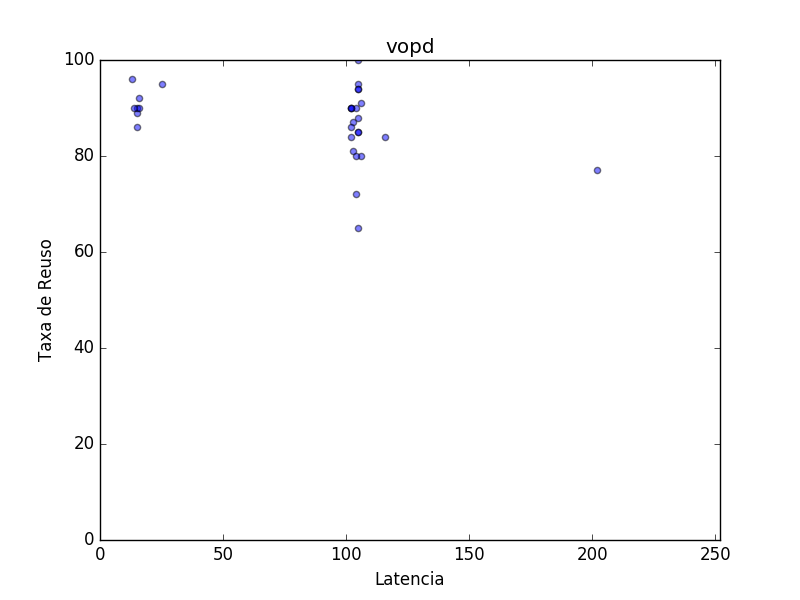
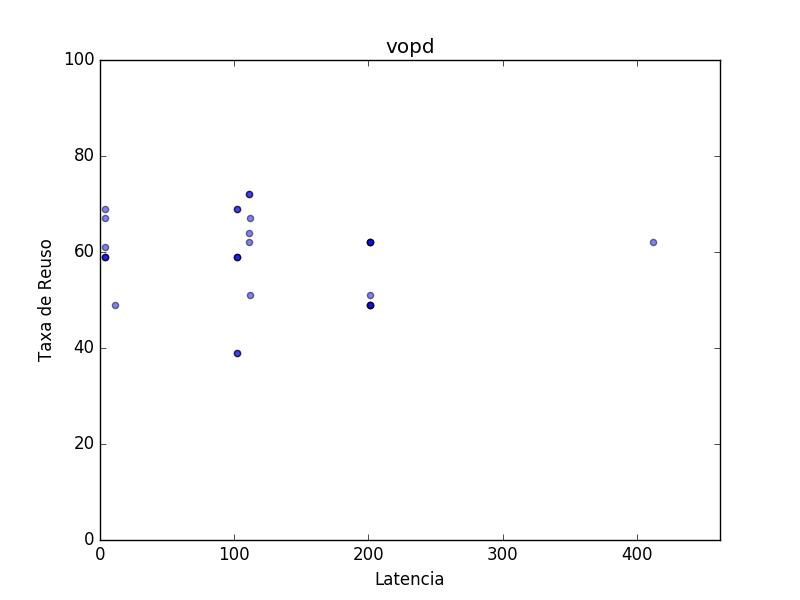
ok

diff --git a/ResultadosTCC/BLS/toGraphic.py b/ResultadosTCC/BLS/toGraphic.py
@@ -1,0 +1,80 @@
+#!/usr/bin/env python
+# -*- coding: utf-8 -*-
+
+import fileinput
+import string
+import numpy
+import matplotlib.pyplot as plt
+
+lista = []
+metricas = {"PMLL":[],"PMLH":[],"PMHL":[],"PMHH":[],"SL":[],"LM":[],"EA":[],"SAE":[],"ER":[],"RE":[],"TRE":[],"TF":[],"SAEF":[], "REF":[], "TREF":[]}
+
+for line in fileinput.input():
+    	if line != "\n":
+            l = line.split()
+            metricas["PMLL"].append(int(l[0]))
+            
+            metricas["PMLH"].append(int(l[2]))
+            
+            metricas["PMHL"].append(int(l[4]))
+            
+            metricas["PMHH"].append(int(l[6]))
+            
+            metricas["SL"].append(int(l[8]))
+            
+            metricas["LM"].append(int(l[10]))
+
+            metricas["EA"].append(int(l[12]))
+
+            metricas["SAE"].append(int(l[14]))
+
+            metricas["ER"].append(int(l[16]))
+
+            metricas["RE"].append(int(l[18]))
+
+            metricas["TRE"].append(float(l[20][:-1]))
+            
+            metricas["TF"].append(int(l[22][6:]))
+
+            metricas["SAEF"].append(int(l[24]))
+
+            metricas["REF"].append(int(l[26]))
+
+            metricas["TREF"].append(float(l[28][:-1]))
+
+#custos = []
+#iteracoes = []
+#tempoFind = []
+
+#for l in lista:
+#		custos.append(int(l[0]))
+#		iteracoes.append(int(l[1]))
+#		tempoFind.append(float(l[2]))
+
+print numpy.mean(metricas["PMLH"]), "&", numpy.std(metricas["PMLH"]), "&", numpy.mean(metricas["PMHL"]), "&", numpy.std(metricas["PMHL"]), "&", numpy.mean(metricas["PMHH"]), "&", numpy.std(metricas["PMHH"]), "&", numpy.mean(metricas["SL"]), "&", numpy.std(metricas["SL"]), "&", numpy.mean(metricas["LM"]), "&", numpy.std(metricas["LM"]), "&", numpy.mean(metricas["EA"]), "&", numpy.std(metricas["EA"]), "&", numpy.mean(metricas["SAE"]), "&", numpy.std(metricas["SAE"]), "&", numpy.mean(metricas["ER"]), "&", numpy.std(metricas["ER"]), "&", numpy.mean(metricas["RE"]), "&", numpy.std(metricas["RE"]), "&", numpy.mean(metricas["TRE"]), "&", numpy.std(metricas["TRE"]), "&", numpy.mean(metricas["TF"]), "&", numpy.std(metricas["TF"]), "&", numpy.mean(metricas["SAEF"]), "&", numpy.std(metricas["SAEF"]), "&", numpy.mean(metricas["REF"]), "&", numpy.std(metricas["REF"]), "\\\\"
+print
+print
+minimo1 = numpy.min(metricas["PMLL"])
+maximo1 = numpy.max(metricas["PMLL"])
+print numpy.mean(metricas["PMLL"]), "&", numpy.std(metricas["PMLL"]), "&", minimo1, "&", metricas["PMLL"].count(minimo1), "&", maximo1, "&", metricas["PMLL"].count(maximo1), "\\\\"
+print
+print
+minimo2 = numpy.min(metricas["TREF"])
+maximo2 = numpy.max(metricas["TREF"])
+print numpy.mean(metricas["TREF"]), "&", numpy.std(metricas["TREF"]), "&", minimo2, "&", metricas["TREF"].count(minimo2), "&", maximo2, "&", metricas["TREF"].count(maximo2), "\\\\"
+
+print
+
+ap = "vopd"
+
+plt.title(ap)
+
+plt.xlim(0, maximo1+50)
+plt.ylim(0, 100)
+plt.xlabel("Latencia")
+plt.ylabel("Taxa de Reuso")
+
+plt.scatter(x = metricas["PMLL"],
+            y = metricas["TREF"], alpha=0.5)
+#plt.show()
+plt.savefig("64/Table/" + ap + "_xy_yx.png")

diff --git a/ResultadosTCC/BLS/arrendonda.py b/ResultadosTCC/BLS/arrendonda.py
@@ -1,0 +1,39 @@
+import fileinput
+
+medias = []
+desvios = []
+
+for line in fileinput.input():
+      flag = True
+      m = []
+      d = []
+      for t in line.split():
+            if t != "&" and t != "\\\\":
+                  if flag:
+                        #print "%.4f \t &" %float(t),
+                        m.append(t)
+                        flag = not flag
+                  else:
+                        d.append(t)
+                        flag = not flag
+
+      if line != "\n":
+            medias.append(m)
+            desvios.append(d)
+
+for m in medias:
+      for i in m:
+            print "%.2f &" %float(i),
+
+      print "\\\\"
+
+
+print
+print
+
+for d in desvios:
+      for i in d:
+            print "%.2f &" %float(i),
+
+      print "\\\\"
+
